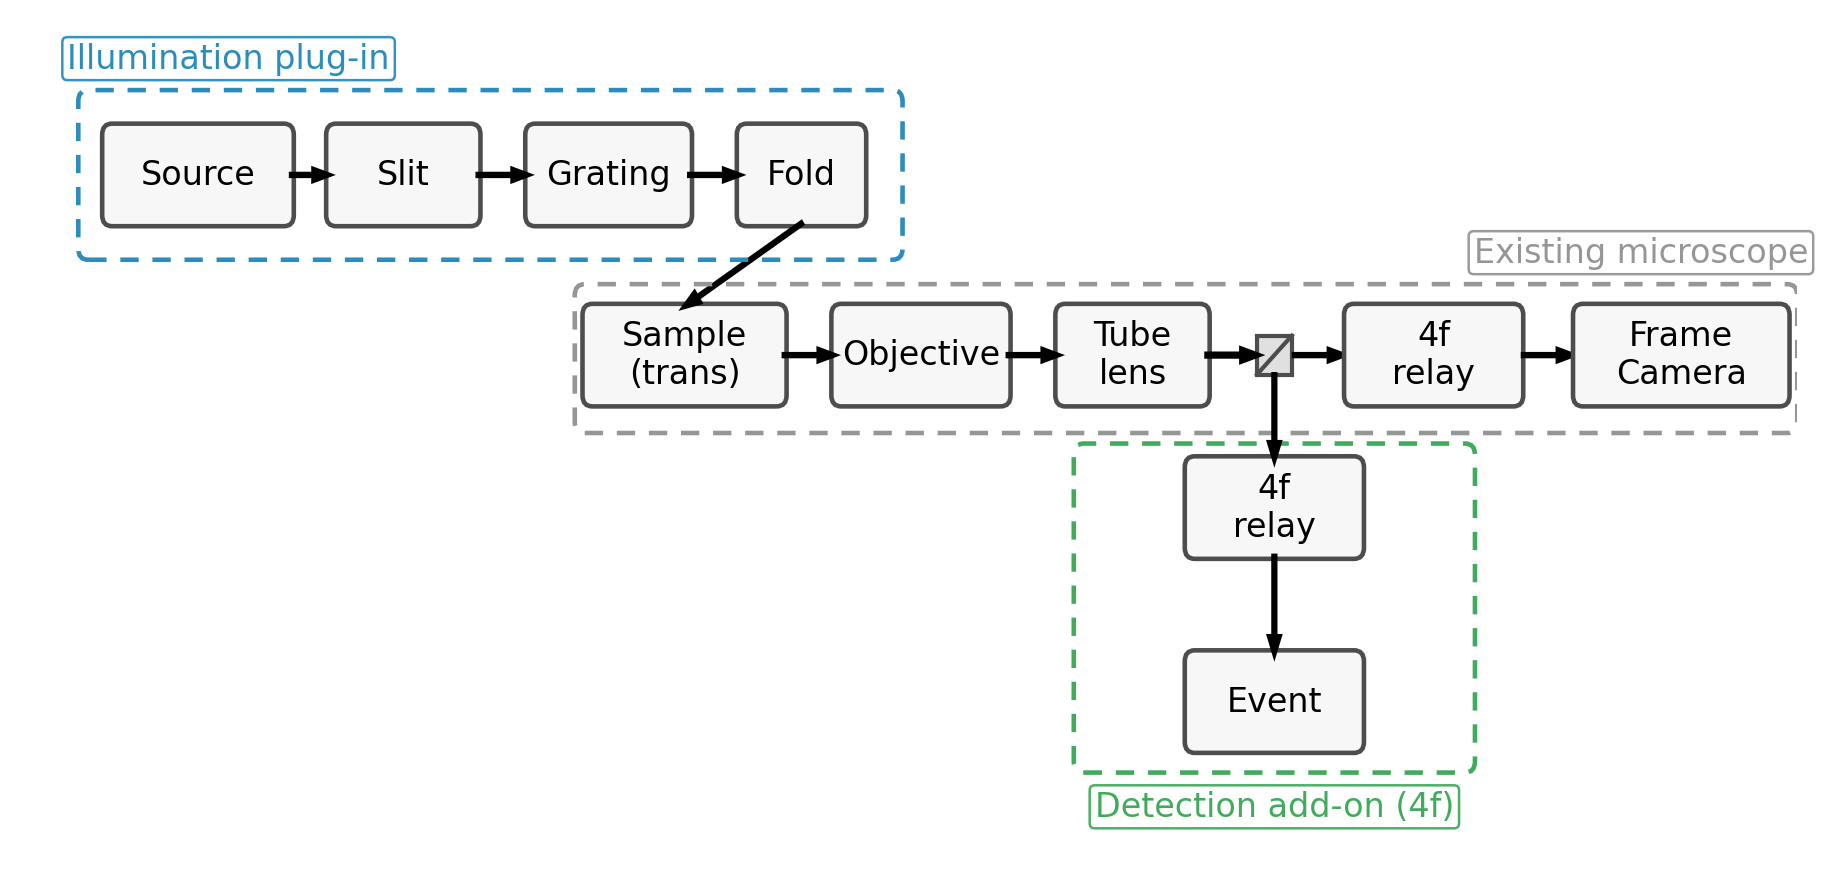
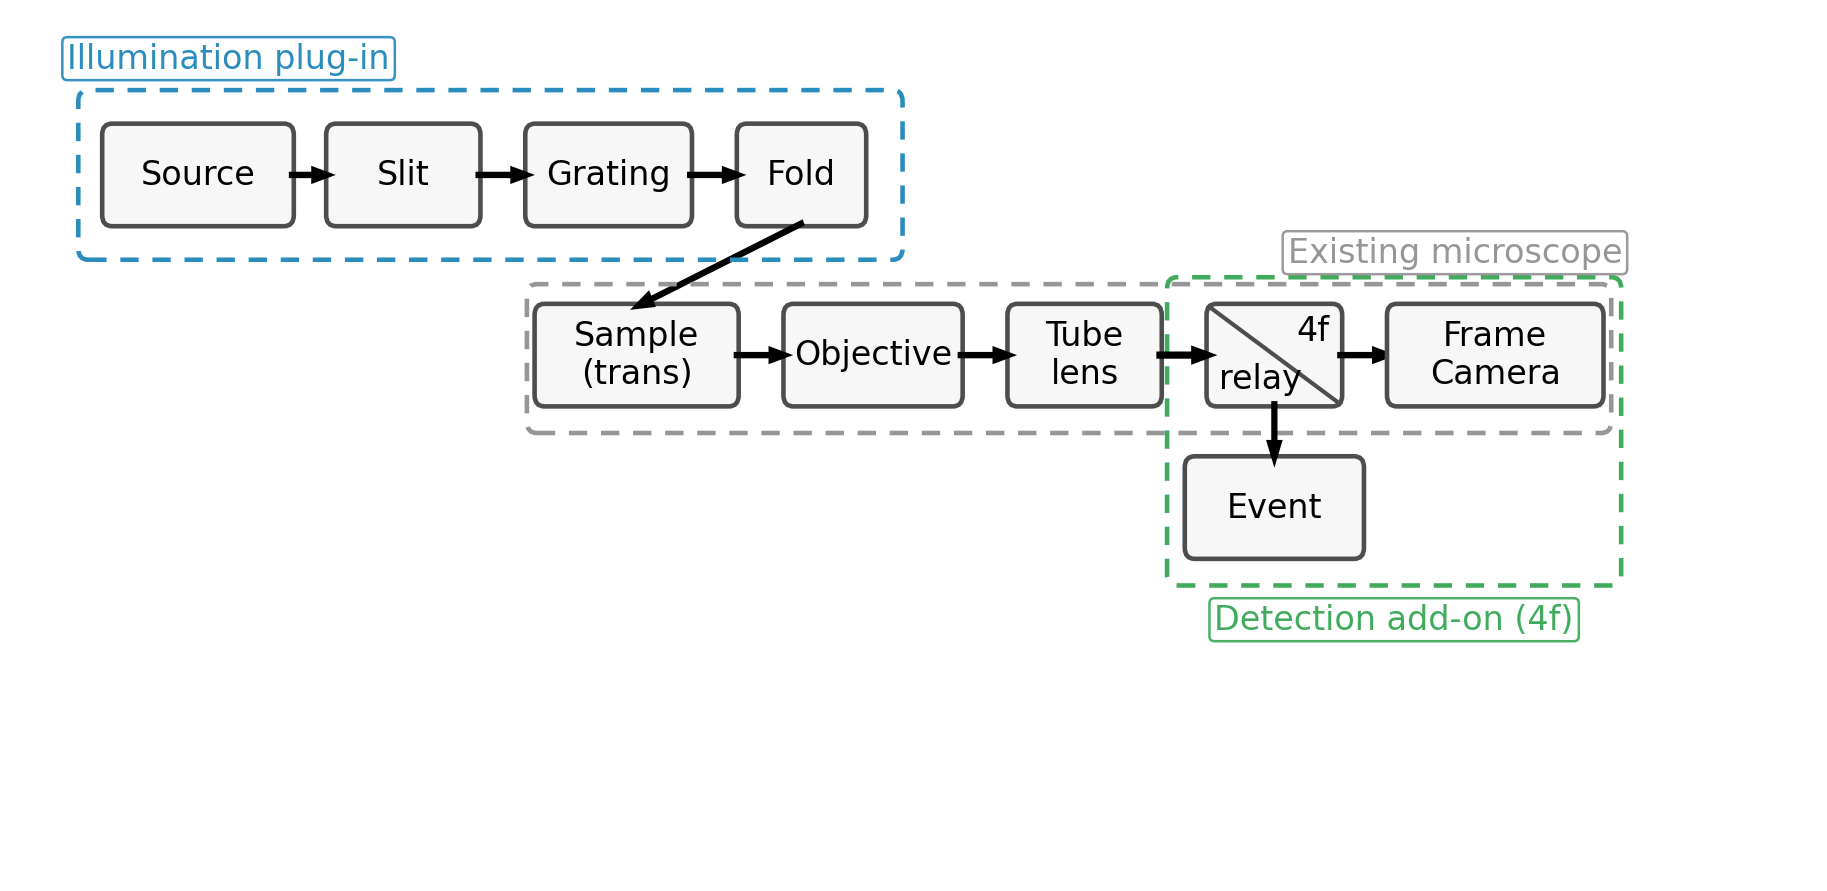
style(figure1): integrate diagonal 4f relay block and rebalance spacing

Changed region(s): [[0.0624, 0.0909, 0.9984, 0.9394], [0.0312, 0.0303, 0.2184, 0.0909]]

diff --git a/publication_code/figure01_system_overview.py b/publication_code/figure01_system_overview.py
@@ -21,7 +21,7 @@ import argparse
 from pathlib import Path
 
 import matplotlib.pyplot as plt
-from matplotlib.patches import FancyBboxPatch, FancyArrow, Rectangle
+from matplotlib.patches import FancyBboxPatch, FancyArrow
 
 
 def add_block(ax, xy, text, width=1.6, height=0.7, fc="#f7f7f7", ec="#4d4d4d",
@@ -84,14 +84,22 @@ def add_plugin_box(ax, x, y, w, h, label, ec="#2b8cbe", label_pos: str = "inside
     )
 
 
-def add_beamsplitter(ax, cx, cy, size=0.25, ec="#4d4d4d", fc="#e0e0e0"):
-    # Draw a small square rotated by 45° to indicate a beamsplitter cube
-    s = size
-    # As a simple square (no rotation) plus diagonal line
-    r = Rectangle((cx - s/2, cy - s/2), s, s, linewidth=1.0, edgecolor=ec, facecolor=fc)
-    ax.add_patch(r)
-    ax.plot([cx - s/2, cx + s/2], [cy - s/2, cy + s/2], color=ec, linewidth=1.0)
-    return r
+def add_split_block(ax, xy, width, height, text_upper="4f", text_lower="relay",
+                    fc="#f7f7f7", ec="#4d4d4d", lw=1.1, radius=0.08, fontsize=8):
+    x, y = xy
+    box = FancyBboxPatch((x, y), width, height,
+                         boxstyle=f"round,pad=0.02,rounding_size={radius}",
+                         linewidth=lw, edgecolor=ec, facecolor=fc)
+    ax.add_patch(box)
+    # Diagonal split to indicate combined beamsplitter + relay optics
+    ax.plot([x, x + width], [y + height, y], color=ec, linewidth=lw * 0.9)
+    pad_x = width * 0.08
+    pad_y = height * 0.08
+    ax.text(x + width - pad_x, y + height - pad_y, text_upper,
+            ha="right", va="top", fontsize=fontsize)
+    ax.text(x + pad_x, y + pad_y, text_lower,
+            ha="left", va="bottom", fontsize=fontsize)
+    return box
 
 
 def render(out_path: Path) -> None:
@@ -126,77 +134,73 @@ def render(out_path: Path) -> None:
     # Placeholder; will draw actual arrow after computing sample positions
 
     # Evenly spaced optical chain within the existing microscope:
-    # choose equal edge-to-edge spacing L between Sample -> Objective -> Tube lens -> Beamsplitter
-    bs_cx, bs_cy = 10.0, 3.65
-    bs_size = 0.28
-    b_left = bs_cx - bs_size / 2.0
-    b_right = bs_cx + bs_size / 2.0
-    # Equal edge-to-edge spacing across the existing microscope chain
+    # choose equal edge-to-edge spacing L between Sample -> Objective -> Tube lens -> 4f relay block
+    bs_cx = 10.0
     L = 0.40
     sample_w, obj_w, tube_w = 1.6, 1.4, 1.2  # tighten Tube lens width to remove slack
+    sample_y = 3.3
+    block_h = 0.7
+    evt_w = 1.4
+    evt_h = 0.7
+    evt_y = 2.2
+    evt_top = evt_y + evt_h
+
+    # Combined reflector + 4f relay block, shared between the frame and event paths
+    relay_block_w = block_h * 1.5  # wider footprint to balance the diagonal labels
+    relay_block_h = block_h  # keep consistent height with microscope elements
+    relay_block_y = sample_y
+    relay_block_top = relay_block_y + relay_block_h
+    relay_block_x = bs_cx - relay_block_w / 2.0
+    relay_block_right = relay_block_x + relay_block_w
 
     # Solve positions from right to left so gaps are equal (edge-to-edge):
-    tube_x = b_left - L - tube_w
+    tube_x = relay_block_x - L - tube_w
     objective_x = (tube_x - L) - obj_w
     sample_x = (objective_x - L) - sample_w
 
     # Blocks
-    sample_y = 3.3
-    block_h = 0.7
     samp = add_block(ax, (sample_x, sample_y), "Sample\n(trans)", sample_w)
     obj = add_block(ax, (objective_x, sample_y), "Objective", obj_w)
     tube = add_block(ax, (tube_x, sample_y), "Tube\nlens", tube_w)
+    relay_block = add_split_block(ax, (relay_block_x, relay_block_y), relay_block_w, relay_block_h)
 
     # Arrows between blocks (edge to edge), equalised length L
-    add_arrow(ax, sample_x + sample_w, 3.65, objective_x, 3.65)
-    add_arrow(ax, objective_x + obj_w, 3.65, tube_x, 3.65)
+    chain_y = sample_y + block_h / 2.0
+    add_arrow(ax, sample_x + sample_w, chain_y, objective_x, chain_y)
+    add_arrow(ax, objective_x + obj_w, chain_y, tube_x, chain_y)
     # tube lens to beamsplitter left edge, drawn above elements
-    add_arrow(ax, tube_x + tube_w, 3.65, b_left, 3.65, lw=1.4, z=10)
-    add_beamsplitter(ax, bs_cx, bs_cy, size=bs_size)
+    add_arrow(ax, tube_x + tube_w, chain_y, relay_block_x, chain_y, lw=1.4, z=10)
 
     # Now draw the arrow from Fold to the center top of Sample box
     fold_cx = 5.7 + 0.5  # fold x + width/2
     sample_cx = sample_x + sample_w / 2.0
     add_arrow(ax, fold_cx, 4.6, sample_cx, sample_y + block_h)
 
-    # Branch 1: top row to frame camera via an additional 4f relay
-    arrow_pad = 0.02
-    relay_r_w = 1.4
-    relay_r_x = b_right + L + 2 * arrow_pad  # align beamsplitter->relay spacing with L
-    relay_r_y = 3.3
-    # Arrow from beamsplitter to right 4f relay (top branch)
-    add_arrow(ax, b_right + arrow_pad, 3.65, relay_r_x - arrow_pad, 3.65)
-    relay_r = add_block(ax, (relay_r_x, relay_r_y), "4f\nrelay", relay_r_w)
+    # Branch 1: top row to frame camera directly from the 4f relay block
     # Frame camera to the right
     cam_w = 1.7  # keep chain tight while staying inside figure bounds
-    cam_x = relay_r_x + relay_r_w + L + 2 * arrow_pad
+    cam_x = relay_block_right + L
     cam_y = 3.3
-    add_arrow(ax, relay_r_x + relay_r_w + arrow_pad, 3.65, cam_x - arrow_pad, 3.65)
+    add_arrow(ax, relay_block_right, chain_y, cam_x, chain_y)
     add_block(ax, (cam_x, cam_y), "Frame\nCamera", cam_w)
 
-    # Branch 2: to 4f relay + event (downwards), centered on the vertical arrow
-    relay_w = 1.4
-    relay_h = 0.7
-    relay_y = 2.2
-    relay_x = bs_cx - relay_w / 2.0
-    # Arrow from splitter down to the center of the relay block
-    add_arrow(ax, bs_cx, bs_cy - 0.14, bs_cx, relay_y + relay_h, z=10)
-    relay = add_block(ax, (relay_x, relay_y), "4f\nrelay", relay_w)
-    # Arrow from relay center down to the event block center
-    evt_w = 1.4
-    evt_h = 0.7
-    evt_y = 0.8
+    # Branch 2: down to the event sensor
     evt_x = bs_cx - evt_w / 2.0
     # From relay bottom edge to event top edge (shorter arrows that just touch boxes)
-    add_arrow(ax, bs_cx, relay_y, bs_cx, evt_y + evt_h, z=10)
+    add_arrow(ax, bs_cx, relay_block_y, bs_cx, evt_top, z=10)
     evt = add_block(ax, (evt_x, evt_y), "Event", evt_w)
 
     # Plugin boxes
     # Illumination plug-in around source->fold (label outside top-left)
     add_plugin_box(ax, 0.4, 4.35, 6.6, 1.2, label="Illumination plug-in", label_pos="outside-tl")
-    # Detection add-on around relay->event (label outside bottom-left)
-    det_half_width = 1.6  # keep margins symmetric around the relay/event stack
-    add_plugin_box(ax, bs_cx - det_half_width, 0.65, 2 * det_half_width, 2.35,
+    # Detection add-on around the combined 4f relay and camera/event chain
+    det_margin_x = 0.15
+    det_margin_y = 0.2
+    det_left = min(relay_block_x, evt_x) - det_margin_x
+    det_right = cam_x + cam_w + det_margin_x
+    det_bottom = evt_y - det_margin_y
+    det_top = relay_block_top + det_margin_y
+    add_plugin_box(ax, det_left, det_bottom, det_right - det_left, det_top - det_bottom,
                    label="Detection add-on (4f)", ec="#41ab5d", label_pos="outside-bc")
     # Existing microscope frame around sample->tube lens + frame camera (dynamic width), label outside top-right
     mic_margin = 0.07
